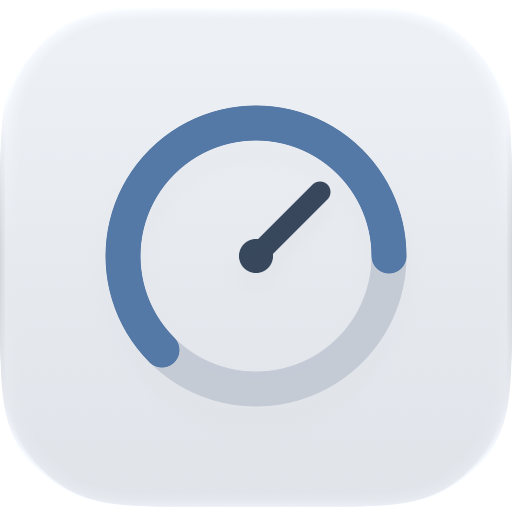
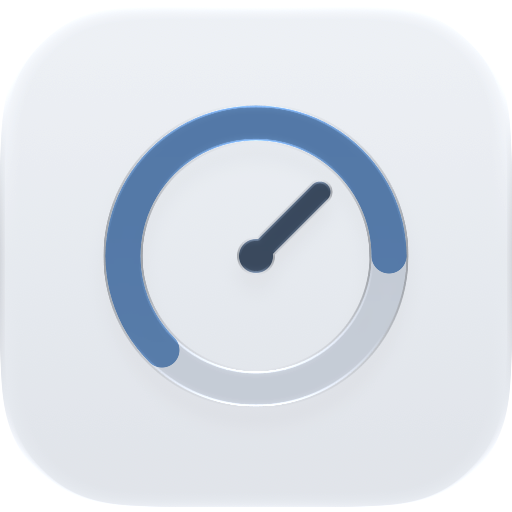
Enable visible glass on the unified gauge foreground

diff --git a/Scripts/verify-icon.py b/Scripts/verify-icon.py
@@ -9,19 +9,8 @@ import subprocess
 import xml.etree.ElementTree as ET
 
 
-def check_material(value):
-    if isinstance(value, dict):
-        assert not value.get("LayerHasSpecular", False), "Compiled highlight annotation changed"
-        for child in value.values():
-            check_material(child)
-    elif isinstance(value, list):
-        for child in value:
-            check_material(child)
-
-
 def validate_compiled_layout(items):
     counts = dict(collections.Counter(item.get("AssetType", "metadata") for item in items))
-    check_material(items)
     stacks = [item for item in items if item.get("AssetType") == "IconImageStack"]
     assert stacks, "Missing layered icon stack"
     for item in items:
@@ -39,6 +28,7 @@ def validate_compiled_layout(items):
         background = [layer for layer in stack["Layers"] if layer.get("AssetType") != "IconGroup"]
         assert len(background) == 1, "Separate glass backplate missing"
         assert foreground and all(layer["Name"] == "AppIcon/Gauge" for layer in foreground), "Split foreground material groups returned"
+        assert all(layer.get("LayerHasSpecular", False) for layer in foreground), "Foreground glass highlights missing"
         appearances = [layer.get("Appearance", "default") for layer in foreground]
         assert len(appearances) == len(set(appearances)), "Multiple foreground planes in one appearance"
     assert counts.get("IconGroup", 0) >= 1, "Missing foreground material group"
@@ -59,7 +49,7 @@ def main():
     group = groups[0]
     assert group["layers"] == [{"image-name": "Gauge.svg", "name": "Gauge"}], "Gauge must be one artwork layer"
     assert group["translucency"]["enabled"]
-    assert group["specular"] is False, "Overly strong edge highlights returned"
+    assert group["specular"] is True, "Shared foreground glass is disabled"
     svg = ET.parse(source / "Assets/Gauge.svg").getroot()
     assert svg.attrib["viewBox"] == "0 0 1024 1024"
     assert svg.attrib["width"] == svg.attrib["height"] == "1024"

diff --git a/Scripts/test-build-tools.py b/Scripts/test-build-tools.py
@@ -21,7 +21,7 @@ class IconPlaneTests(unittest.TestCase):
         self.group = {"AssetType": "IconGroup", "Name": "AppIcon/Gauge", "LayerCount": 1, "Layers": [self.vector]}
         self.stack = {"AssetType": "IconImageStack", "CanvasWidth": 1024, "CanvasHeight": 1024, "LayerCount": 2,
                       "Layers": [{"Name": "AppIcon_Assets/Gradient-1"},
-                                 {"AssetType": "IconGroup", "Name": "AppIcon/Gauge", "Appearance": "NSAppearanceNameAqua"}]}
+                                 {"AssetType": "IconGroup", "Name": "AppIcon/Gauge", "Appearance": "NSAppearanceNameAqua", "LayerHasSpecular": True}]}
         self.items = [self.vector, self.group, self.stack]
 
     def test_one_foreground_plane_above_backplate_passes(self):
@@ -38,9 +38,9 @@ class IconPlaneTests(unittest.TestCase):
         with self.assertRaisesRegex(AssertionError, "one artwork layer"):
             VERIFY_ICON.validate_compiled_layout(self.items)
 
-    def test_nested_specular_annotation_is_rejected(self):
-        self.stack["Layers"][1]["LayerHasSpecular"] = True
-        with self.assertRaisesRegex(AssertionError, "highlight annotation"):
+    def test_missing_foreground_glass_is_rejected(self):
+        self.stack["Layers"][1]["LayerHasSpecular"] = False
+        with self.assertRaisesRegex(AssertionError, "glass highlights missing"):
             VERIFY_ICON.validate_compiled_layout(self.items)
 
     def test_duplicate_foreground_plane_in_one_appearance_is_rejected(self):

diff --git a/CHANGELOG.md b/CHANGELOG.md
@@ -2,8 +2,8 @@
 
 ## 0.6.13
 
-- Unify the ring, allowance arc and needle into one foreground SVG and one shared material group, above the separate glass backplate. Preserve geometry, colors and quiet material settings; native menu and menu-bar glyph are unchanged.
-- Validate the compiled foreground plane in every appearance, with regression checks against split groups and nested highlights.
+- Unify the ring, allowance arc and needle into one foreground SVG and one shared material group, above the separate glass backplate. Preserve geometry and colors; enable shared glass highlights with 16% neutral shadow and 12% translucency. Native menu and menu-bar glyph are unchanged.
+- Validate the compiled foreground plane in every appearance, with regression checks against split groups and missing foreground glass.
 
 ## 0.6.12
 
